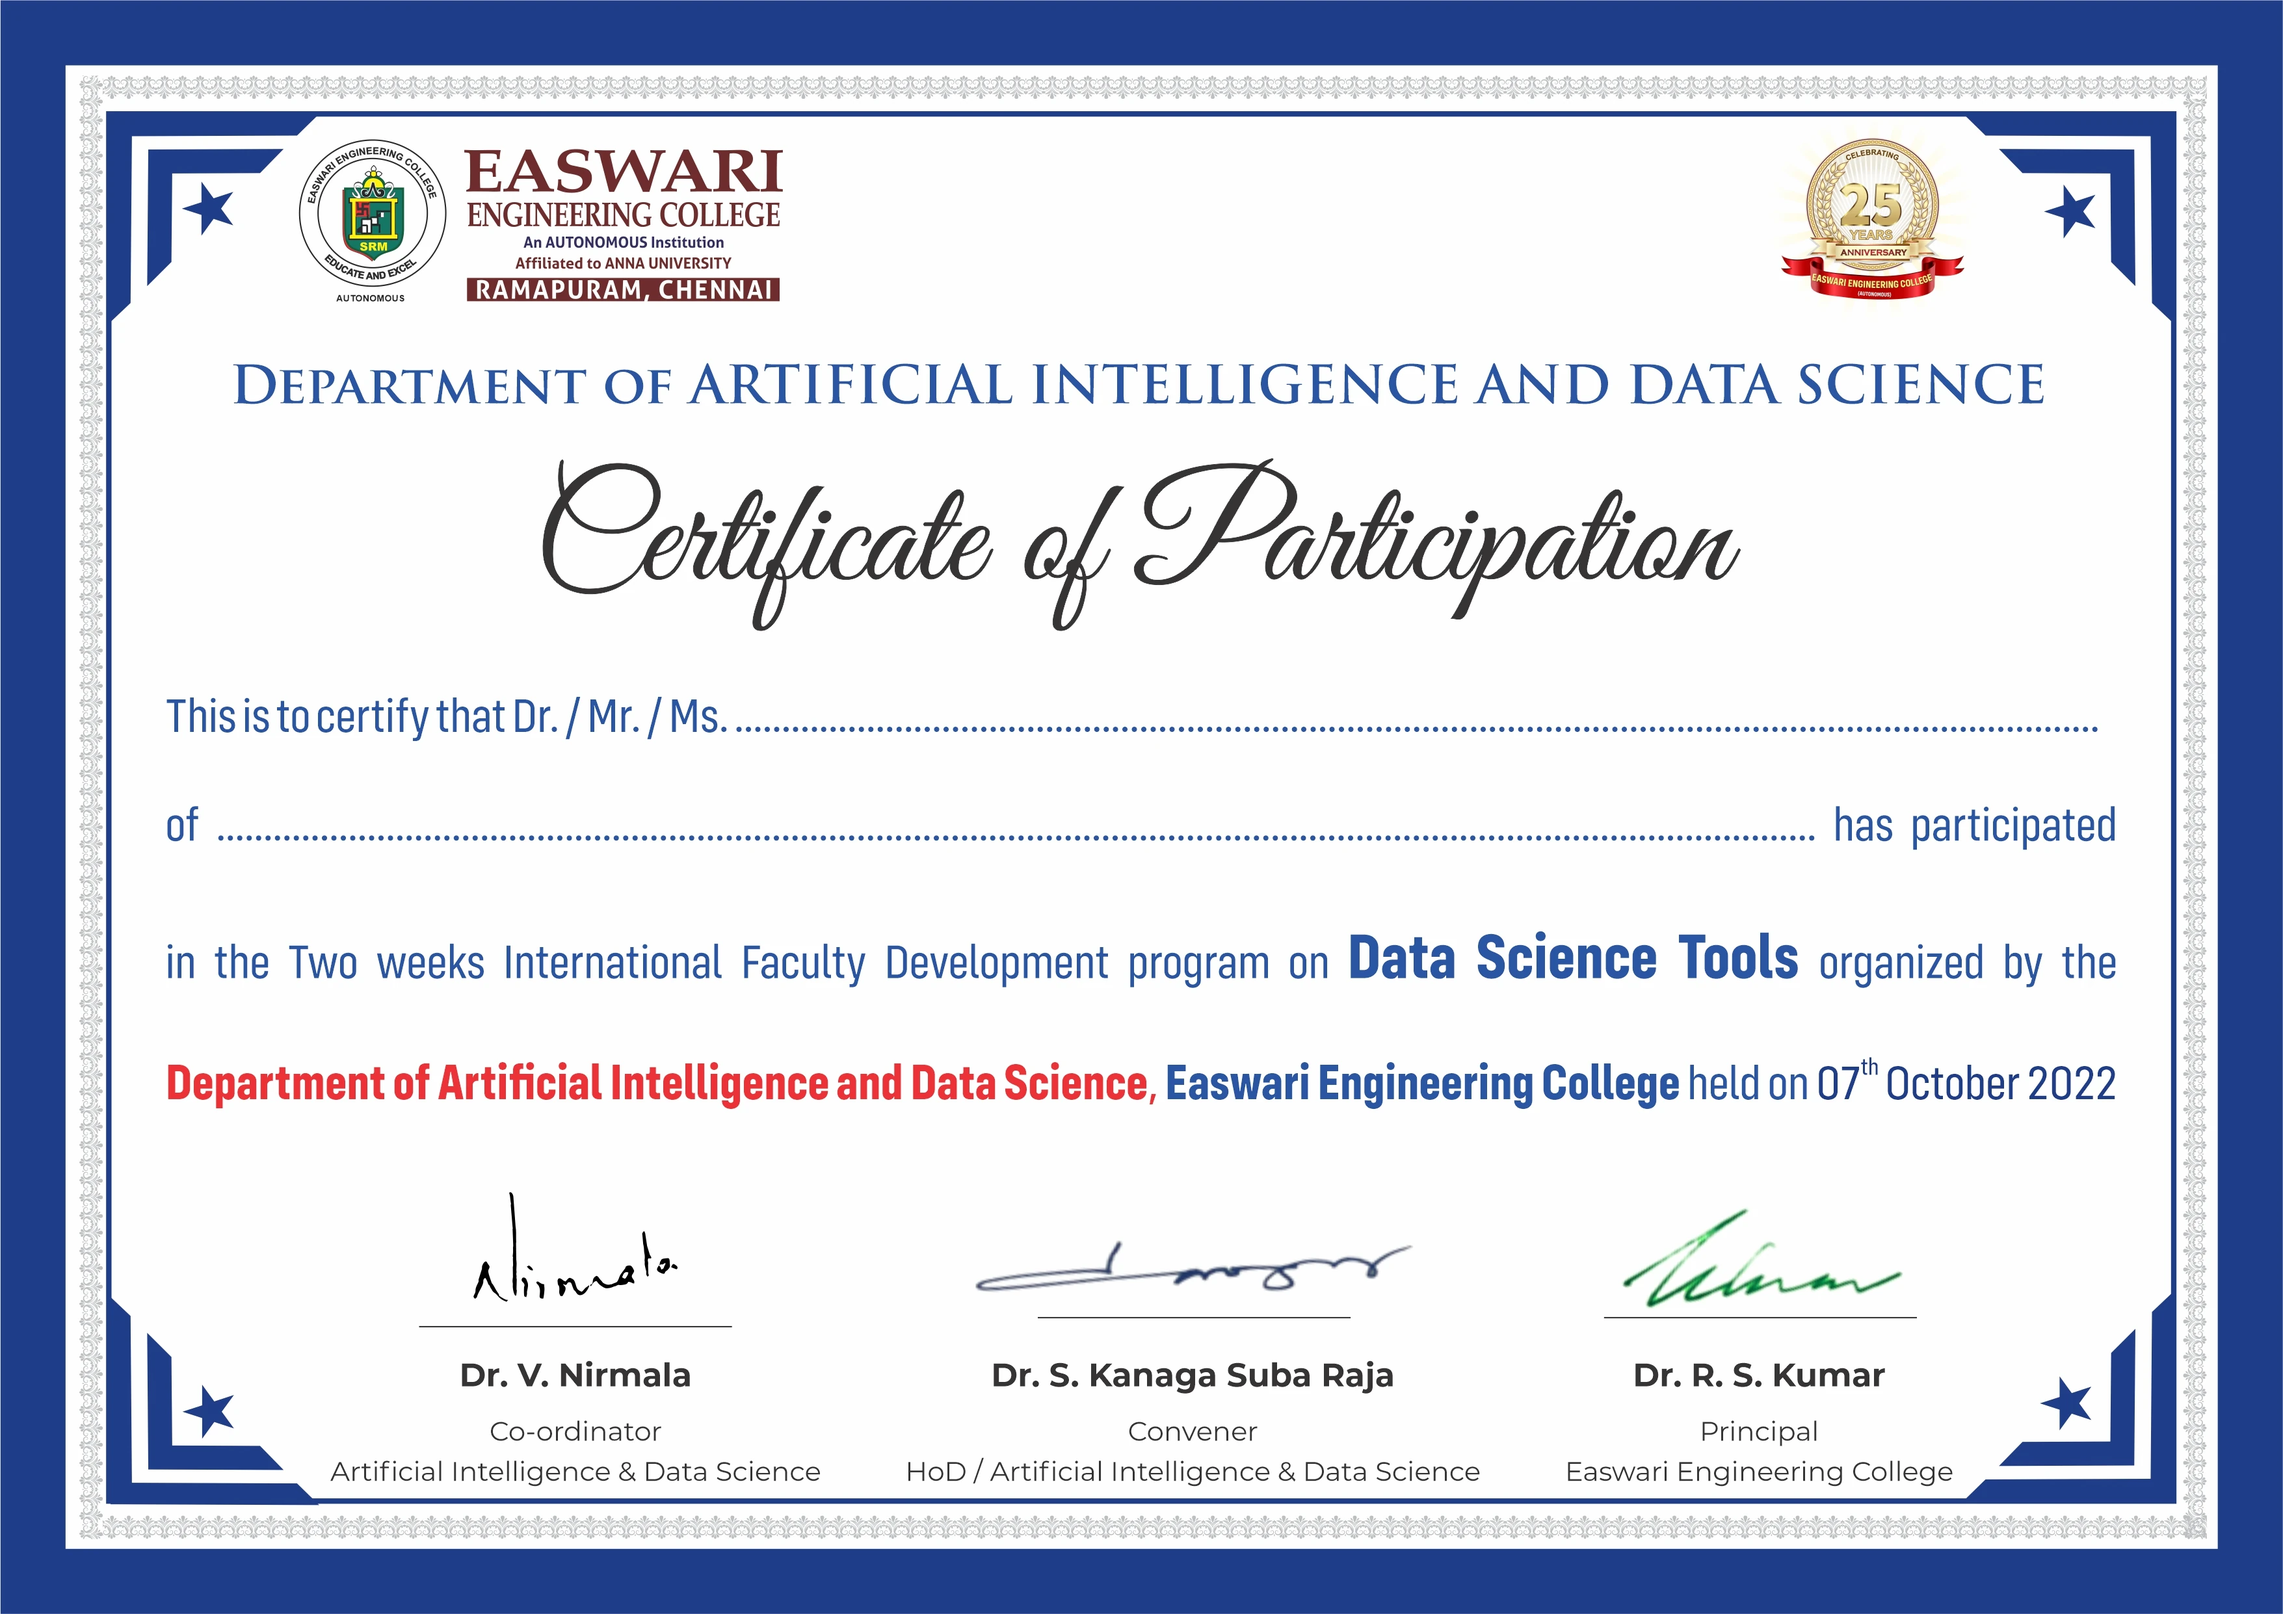
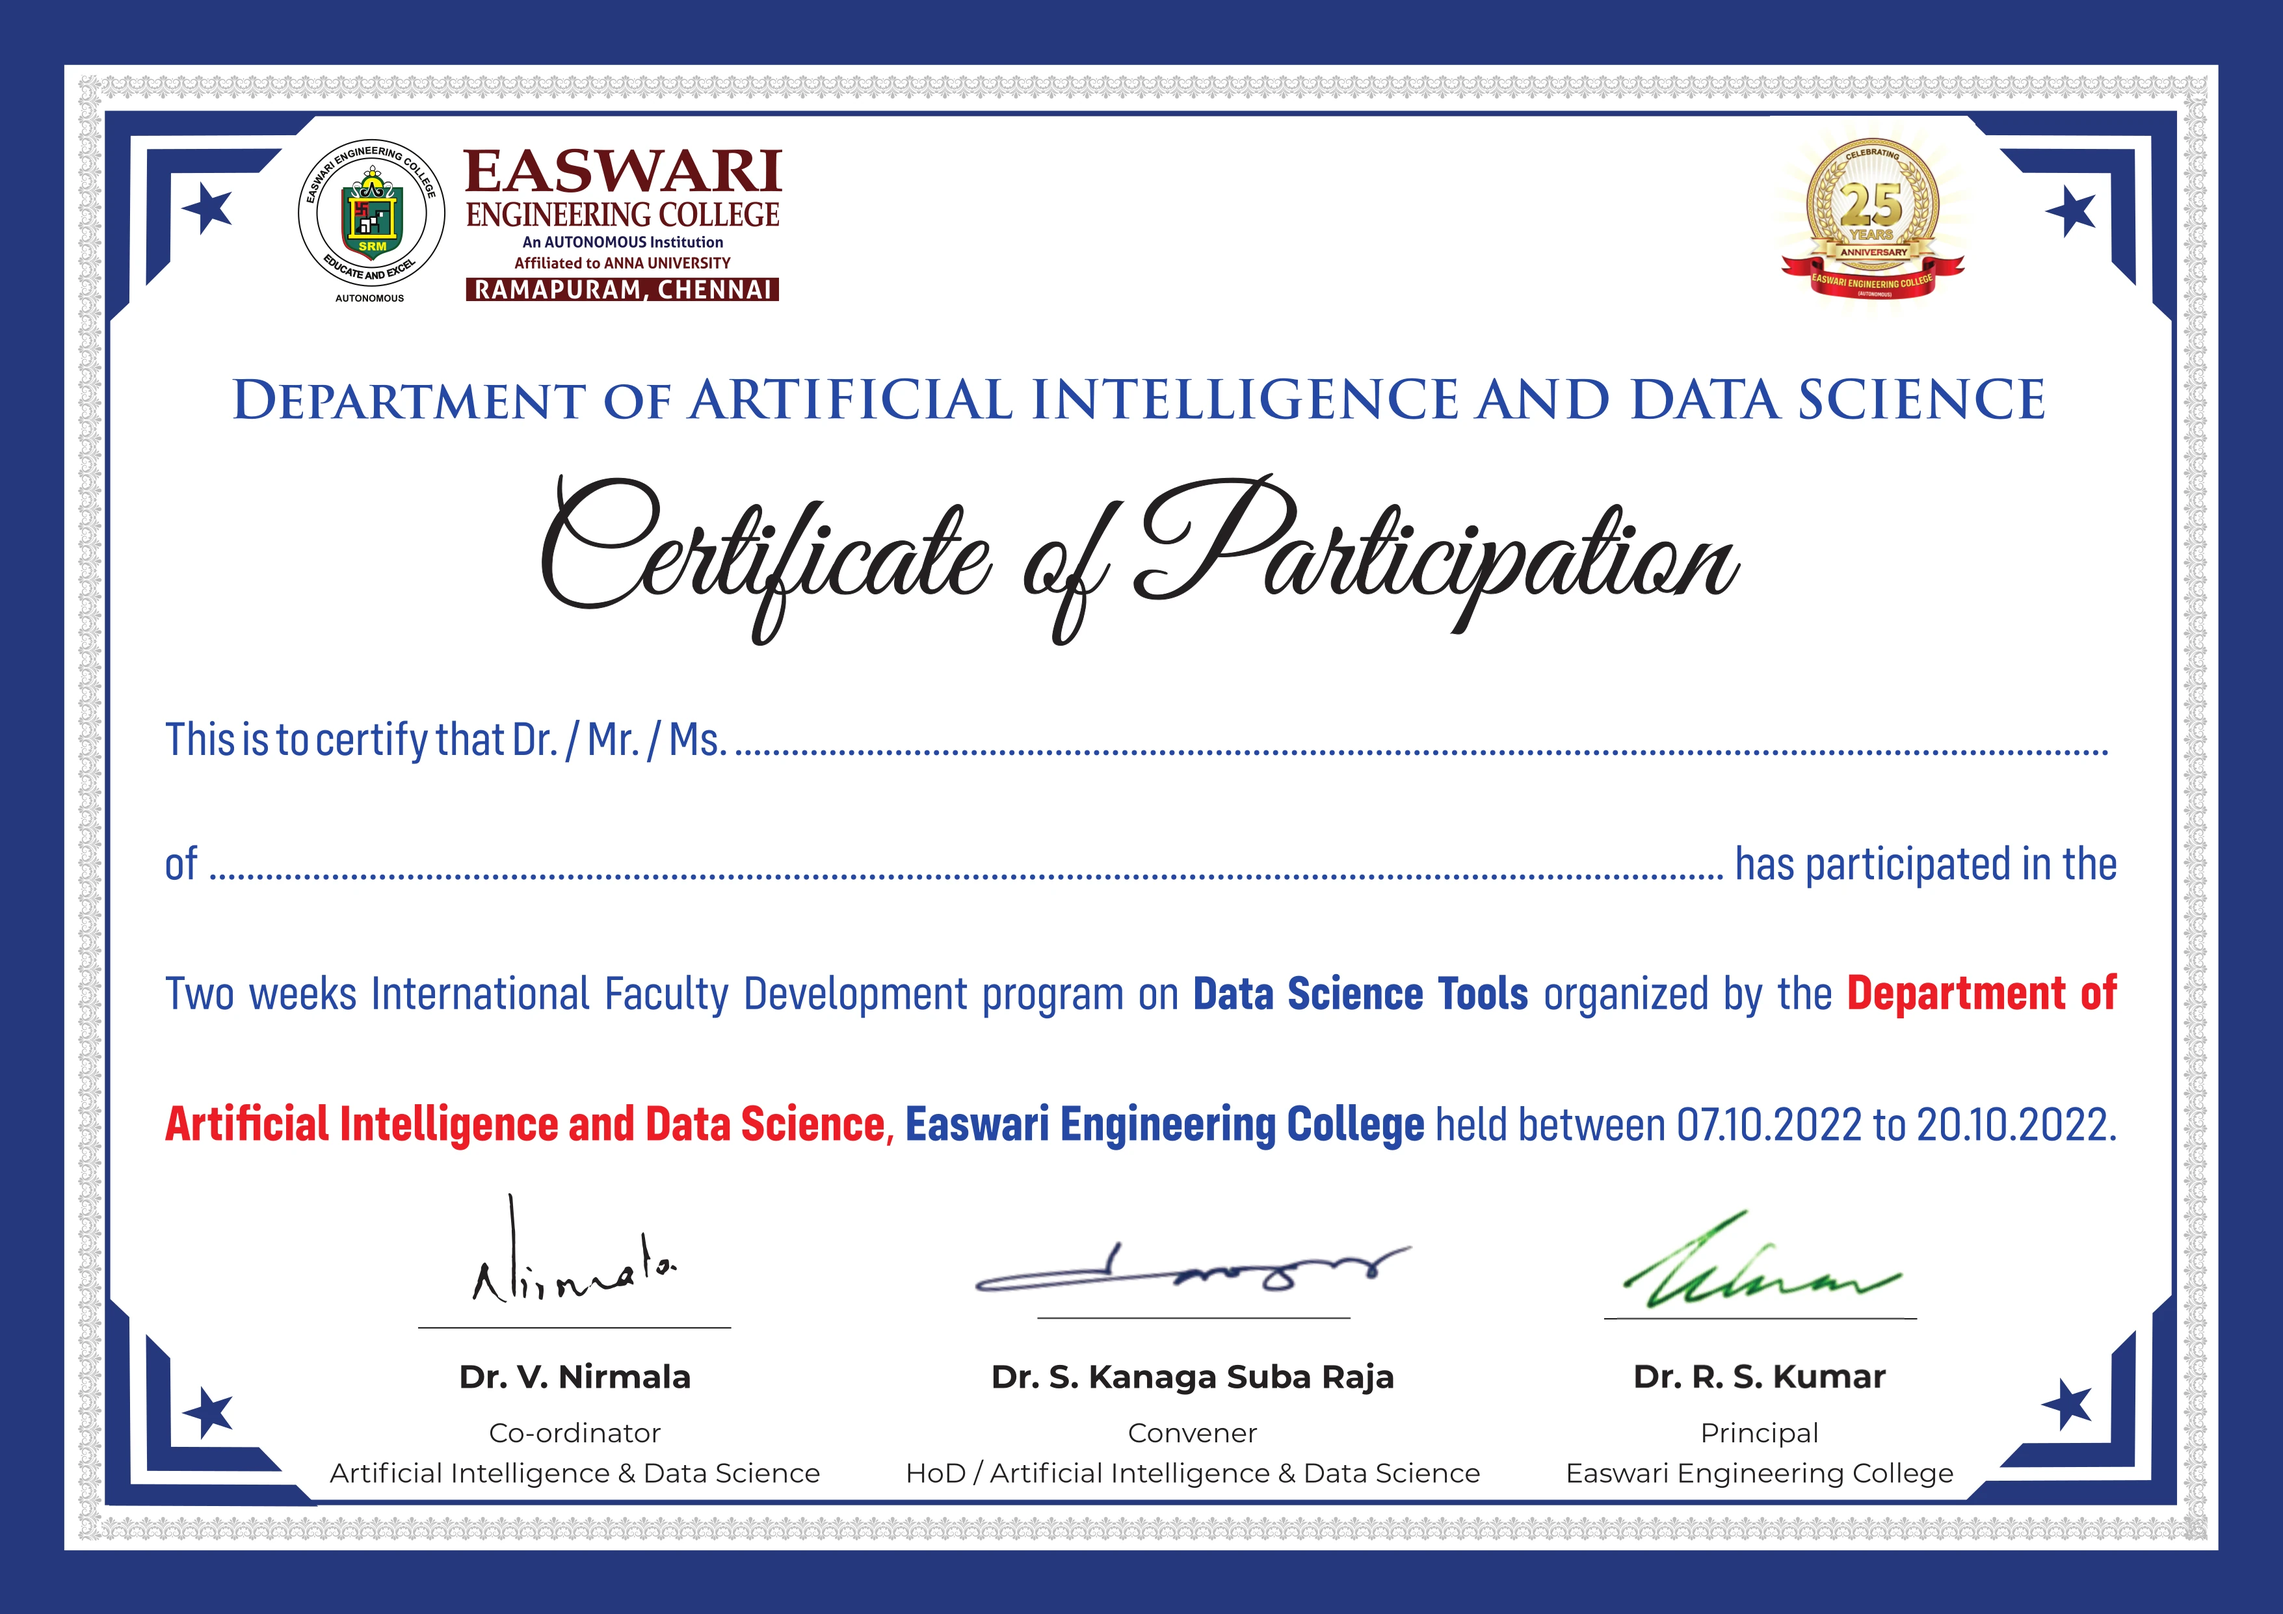
update cert

diff --git a/assets/names.ts b/assets/names.ts
@@ -987,7 +987,7 @@ export default [{
 }, {
   "name": "Anitha K",
   "email": "ani.kcsice@Gmail.com",
-  "college": "AL AMEEN ENGINEERING COLLEGE",
+  "college": "Al Ameen Engineering College",
   "phone": "9943082983",
 }, {
   "name": "Sheena K M",
@@ -1564,7 +1564,7 @@ export default [{
 }, {
   "name": "Surya. K",
   "email": "sk4421003@gmail.com",
-  "college": "University Voc College Of Engineering, Thoothukudi",
+  "college": "University Voc College Of Engineering",
   "phone": "6385614166",
 }, {
   "name": "Faiza S",
@@ -1574,7 +1574,7 @@ export default [{
 }, {
   "name": "Manimekalai J",
   "email": "manimekalaimaths@gmail.com",
-  "college": "Al Ameen Engineering College (Autonomous) Erode",
+  "college": "Al Ameen Engineering College",
   "phone": "9659576234",
 }, {
   "name": "P. R. Sheebha Rani",
@@ -2713,6 +2713,11 @@ export default [{
   "email": "cjramancj@gmail.com",
   "college": "St. Joseph's College of Engineering",
   "phone": "9994030069",
+}, {
+  "name": "Vigneshkumar R.",
+  "email": "vignesh1460@gmail.com",
+  "college": "Muthayammal Engineering College",
+  "phone": "7904111460",
 }, {
   "name": "J. Dhilipan",
   "email": "",

diff --git a/routes/index.tsx b/routes/index.tsx
@@ -25,11 +25,15 @@ export default function Home() {
           FDP on Data Science Tools
         </div>
       </div>
-      {/*<Cert />*/}
-      <div class="text-2xl font-semibold text-center">
-        This website is temporarily down until 26th of October due to an issue with the event date
-        displayed on the certificate. 
-      </div>
+      <Cert />
+      {
+        /*
+          <div class="text-2xl font-semibold text-center">
+          This website is temporarily down until 26th of October due to an issue with the event date
+          displayed on the certificate.
+          </div>
+         */
+      }
     </div>
   );
 }

diff --git a/assets/create.ts b/assets/create.ts
@@ -50,7 +50,7 @@ ctx.strokeStyle = "#1445a1";
   ctx.fillText(
     `${name}`,
     1500,
-    1100,
+    1150,
   );
 
   ctx.font = applyText(
@@ -60,7 +60,7 @@ ctx.strokeStyle = "#1445a1";
   ctx.fillText(
     `${college}`,
     600,
-    1270,
+    1320,
   );
 
   return canvas.toDataURL();
